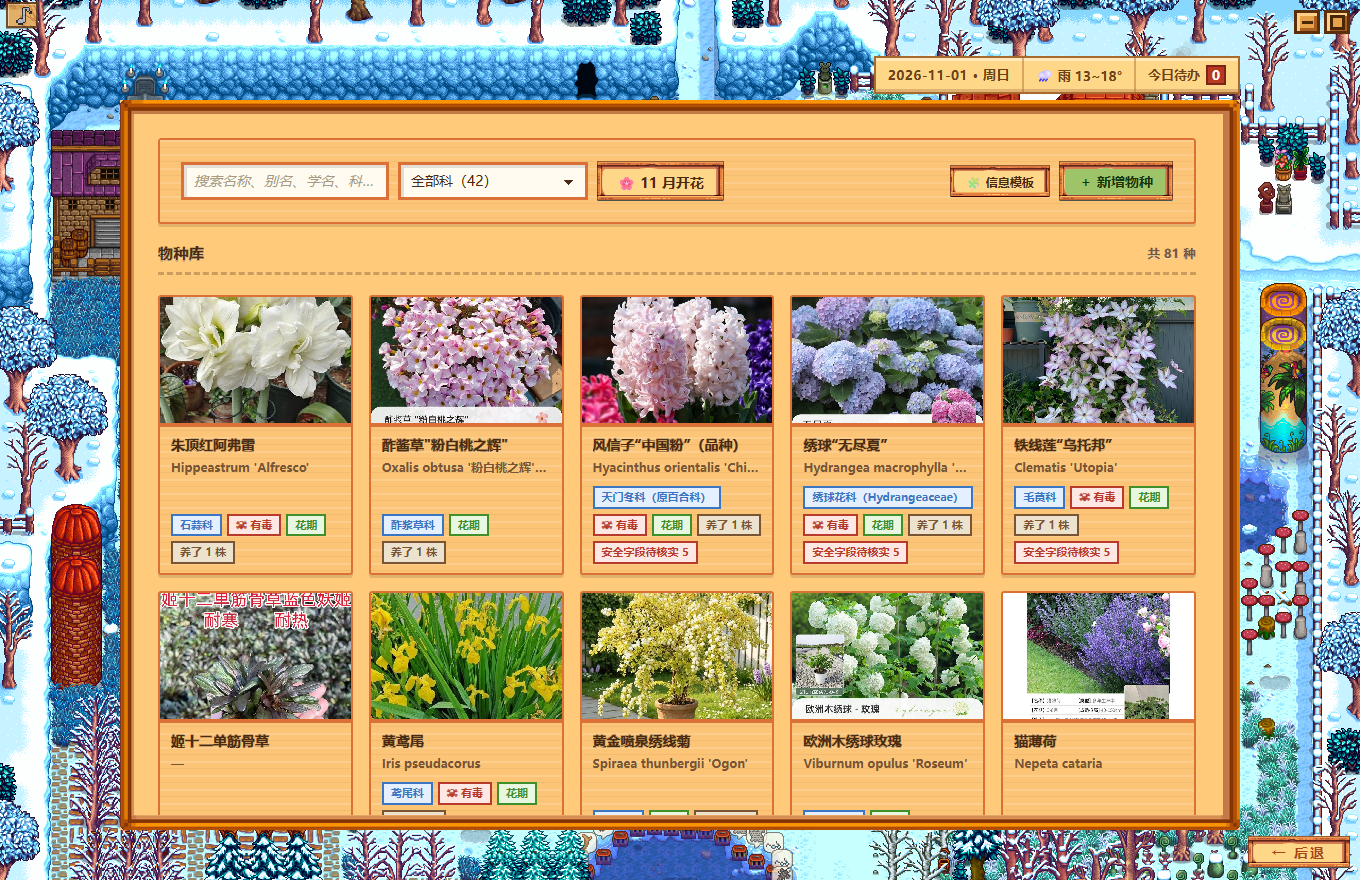
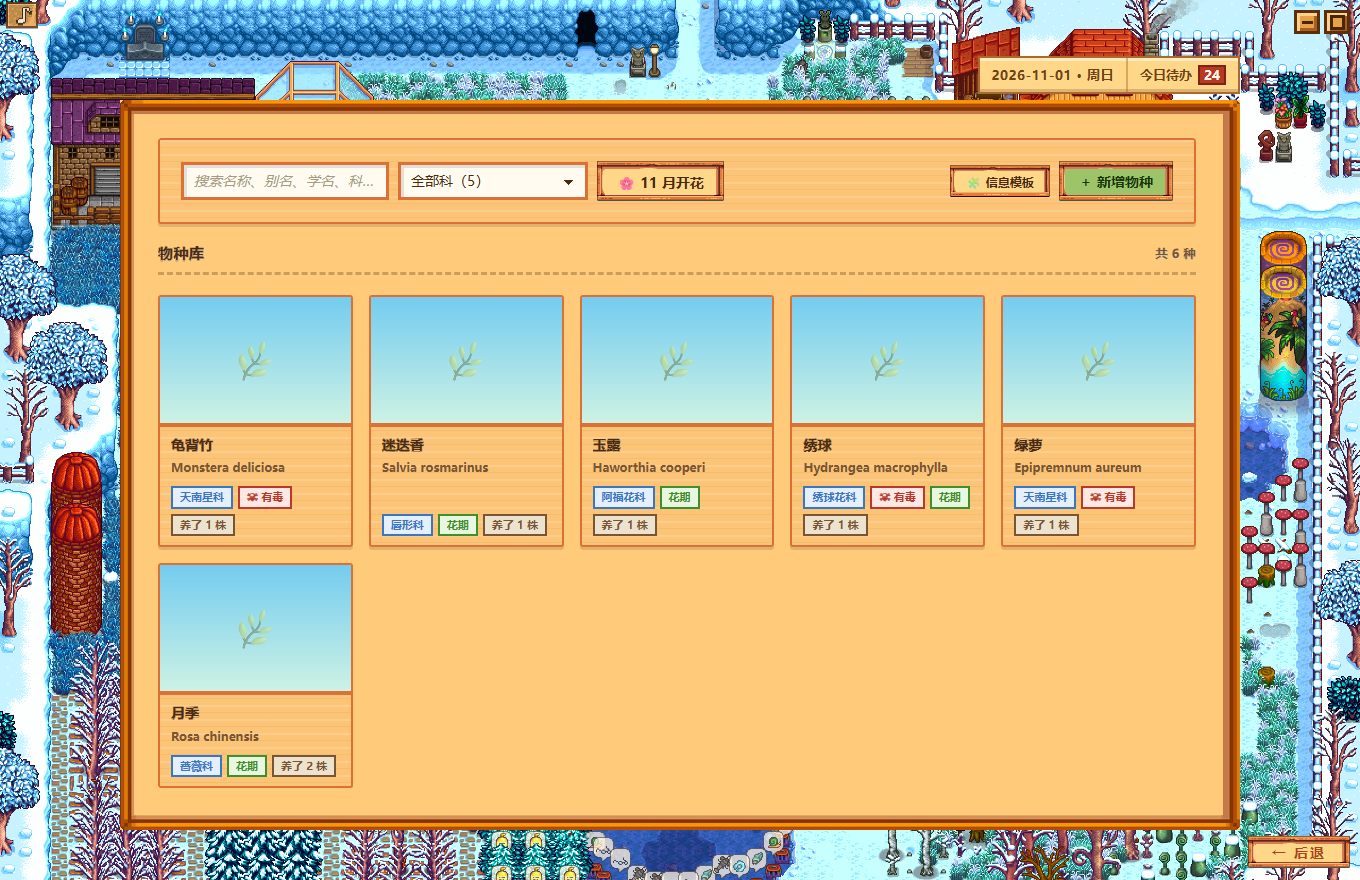
docs(readme): 全部截图改用演示数据
- 9 张全部重拍：首页 / 花园 / 物种库 / 信息模板 / 设置 / 今日 / 养护计划 / 种草清单 / AI 适配分析
- 演示库（seed-demo）+ 作者私有皮肤，不出现真实植株、照片、城市
- README 说明：数据为演示数据，皮肤为私有素材不随仓库分发

diff --git a/README.md b/README.md
@@ -14,11 +14,13 @@
 |---|---|---|
 | ![今日](docs/screenshot-today.png) | ![养护计划](docs/screenshot-plans.png) | ![种草清单](docs/screenshot-wishlist.png) |
 
-> 截图由应用自身的 `--screenshot` 开关生成。
-> **皮肤 / 背景素材是作者本机的私有素材，不随仓库分发**（`textures/` 在 `.gitignore` 里），
+![AI 适配分析](docs/screenshot-analysis.png)
+
+> 截图由应用自身的 `--screenshot` 开关生成，**数据全部是演示数据**
+> （`node scripts/seed-demo.mjs .cache/demo`，跑起来加 `--user-data-dir=.cache/demo`），
+> 不含真实植株 / 照片 / 城市。
+> **皮肤与背景是作者本机的私有素材，不随仓库分发**（`textures/` 在 `.gitignore` 里），
 > 所以直接 clone 下来跑会是默认外观。
-> 「我的花园」与「今日」两张用的是演示数据（`node scripts/seed-demo.mjs .cache/demo`，
-> 跑起来加 `--user-data-dir=.cache/demo`），其余是作者本机界面，不含私人植株信息。
 
 > 名称 `Sproutbook` 是**暂定代号**，与任何商业游戏无关。仓库内不含任何第三方游戏素材。
 
